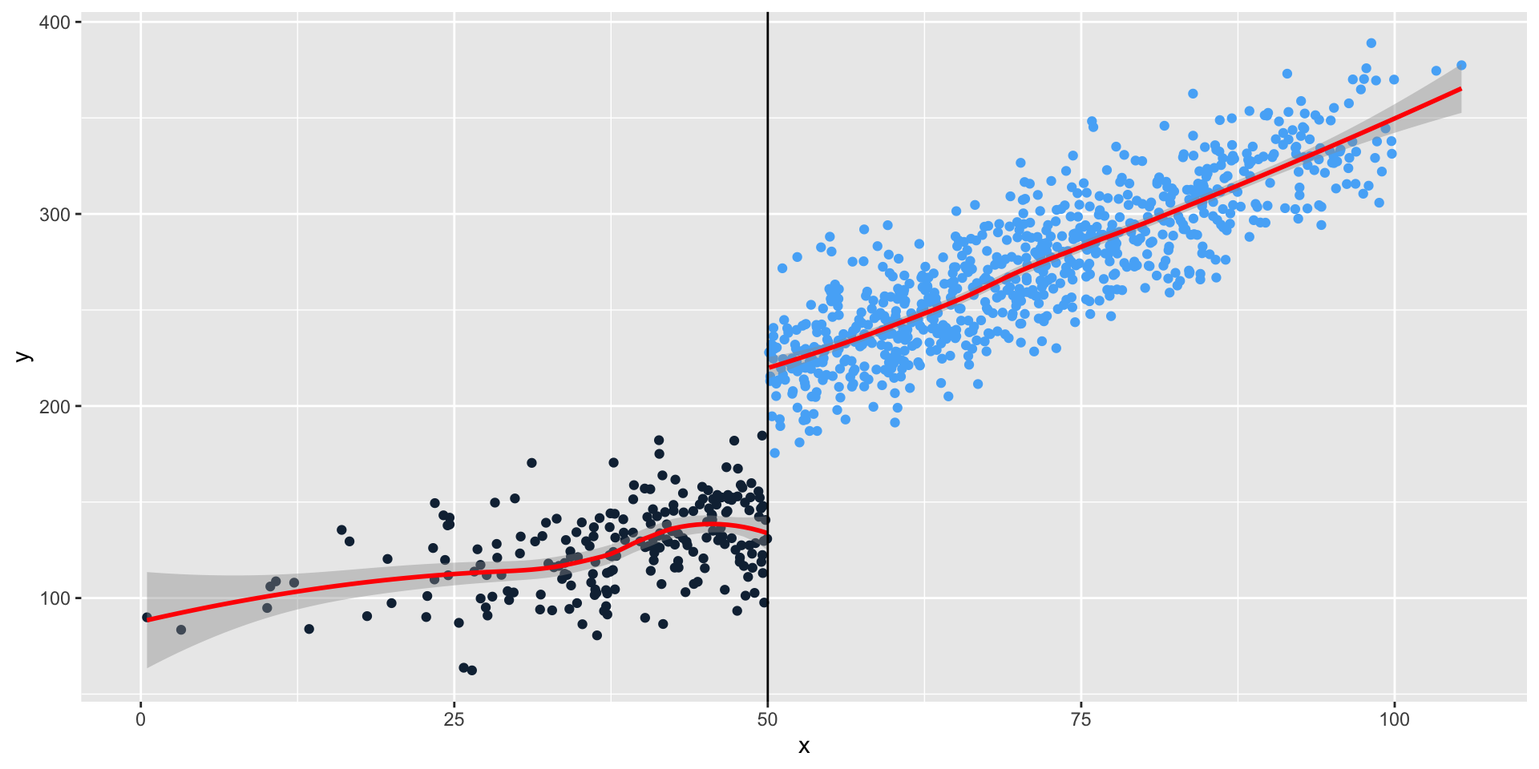
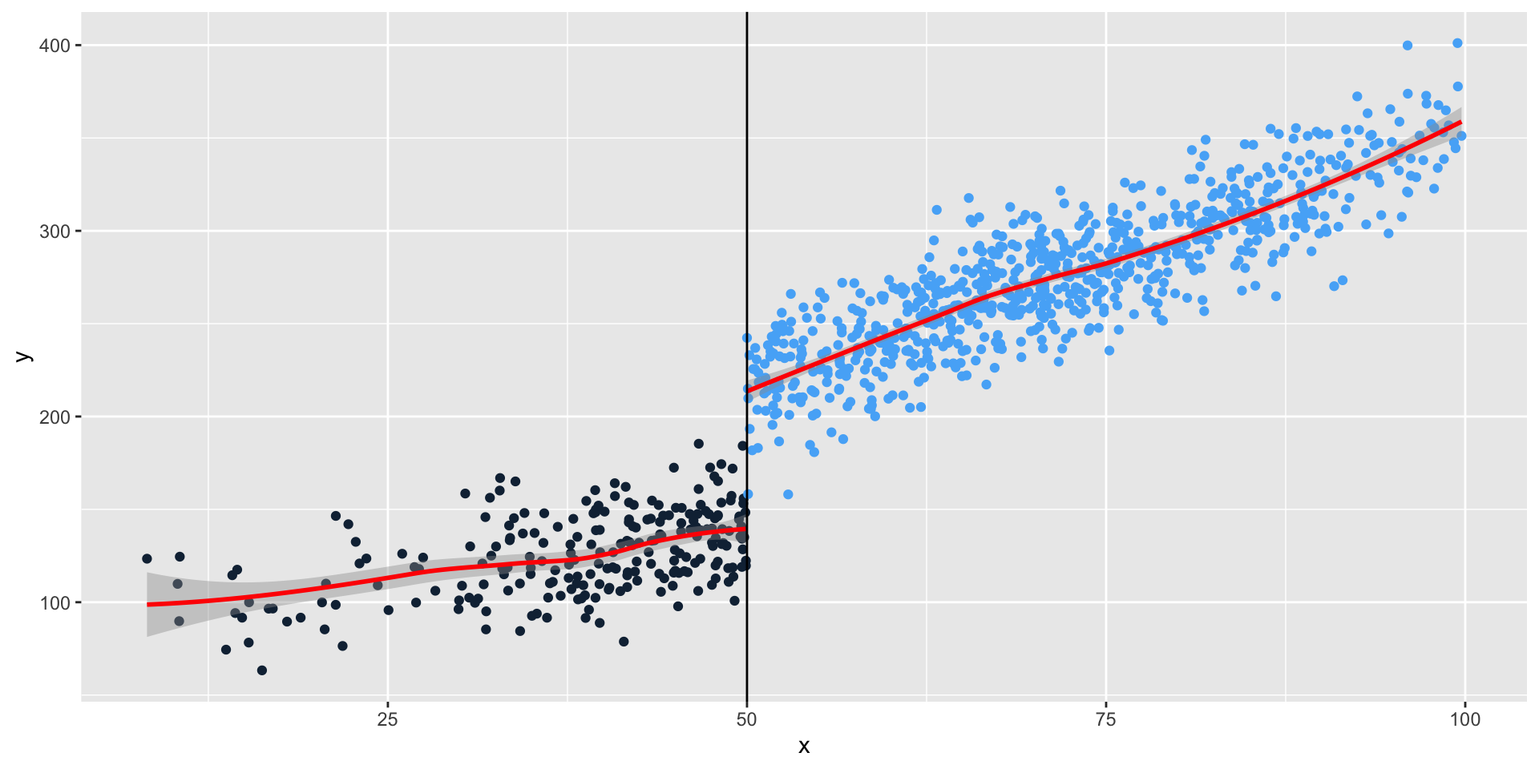
RDD updated

diff --git a/7.lecture7_rdd.html b/7.lecture7_rdd.html
@@ -10,7 +10,7 @@
   <meta name="generator" content="quarto-1.7.32">
 
   <meta name="author" content="Ozan Aksoy">
-  <meta name="dcterms.date" content="2026-03-03">
+  <meta name="dcterms.date" content="2026-03-04">
   <title>Exotic designs: Regression Discontinuity</title>
   <meta name="apple-mobile-web-app-capable" content="yes">
   <meta name="apple-mobile-web-app-status-bar-style" content="black-translucent">
@@ -212,7 +212,7 @@ Ozan Aksoy
 </div>
 </div>
 
-  <p class="date">March 3, 2026</p>
+  <p class="date">March 4, 2026</p>
 </section>
 <section>
 <section id="outline" class="title-slide slide level1 center" data-background-color="#17a091">
@@ -250,7 +250,7 @@ Ozan Aksoy
 <h2>What is a <em>discontinuity</em>?</h2>
 <p>There are two types of processes for assignment</p>
 <p><strong>Sharp</strong>: treatment is only and always assigned to everyone after <span class="math inline">\(c\)</span>, never before that value</p>
-<p><strong>Fuzzy</strong>: treatment is more likely after <span class="math inline">\(c\)</span> than before but not 100%; some below <span class="math inline">\(c\)</span> do get treatment</p>
+<p><strong>Fuzzy</strong>: treatment is more likely after <span class="math inline">\(c\)</span> than before but not 100%; some below <span class="math inline">\(c\)</span> may get treatment, some above <span class="math inline">\(c\)</span> may not get treatment</p>
 </section>
 <section id="examples-of-discontinuities" class="slide level2">
 <h2>Examples of discontinuities</h2>
@@ -375,7 +375,7 @@ Ozan Aksoy
 <ul>
 <li><strong>Treatment</strong> <span class="math inline">\(D_i \in \{0,1\}\)</span></li>
 <li><strong>Threshold</strong> <span class="math inline">\(c\)</span> above which <span class="math inline">\(D_i = 1\)</span></li>
-<li><strong>Potential outcomes</strong> under Treatment and controlL <span class="math inline">\(Y_i(1)\)</span> and <span class="math inline">\(Y_i(0)\)</span></li>
+<li><strong>Potential outcomes</strong> under Treatment and control <span class="math inline">\(Y_i(1)\)</span> and <span class="math inline">\(Y_i(0)\)</span></li>
 <li><strong>Running/forcing variable</strong> <span class="math inline">\(X_i\)</span> that determines if <span class="math inline">\(i\)</span> is above/below <span class="math inline">\(c\)</span></li>
 </ul>
 <p><span class="math display">\[
@@ -412,7 +412,7 @@ D_i =
 <li><p>No perfect manipulation of <span class="math inline">\(X\)</span></p></li>
 <li><p>Local SUTVA</p></li>
 <li><p>Sharp RD: Treatment assignment must change discontinuously at the cutoff</p></li>
-<li><p>Fuzzy RD: Exclusion restriction (here must be no “direct” effect of crossing ccc on the outcome.)</p></li>
+<li><p>Fuzzy RD: Exclusion restriction (here must be no “direct” effect of crossing <span class="math inline">\(c\)</span> on the outcome)</p></li>
 <li><p>Correct functional form is estimated locally</p></li>
 </ul>
 </section>
@@ -730,25 +730,25 @@ Window Length / 2          &lt;c     &gt;=c    P&gt;|T|
 
     <script>
       // Create table-specific functions using external factory
-      const tableFns_0lprje3f9f0c4ai1prxd = TinyTable.createTableFunctions("tinytable_0lprje3f9f0c4ai1prxd");
+      const tableFns_wkcvma13ls3y1tzstnja = TinyTable.createTableFunctions("tinytable_wkcvma13ls3y1tzstnja");
       // tinytable span after
       window.addEventListener('load', function () {
           var cellsToStyle = [
             // tinytable style arrays after
-          { positions: [ { i: '14', j: 2 }, { i: '14', j: 3 }, { i: '14', j: 4 } ], css_id: 'tinytable_css_yk1djojq9n0e3olnguuz',}, 
-          { positions: [ { i: '6', j: 2 }, { i: '6', j: 3 }, { i: '6', j: 4 } ], css_id: 'tinytable_css_2kko8js0dqf65l47m0ci',}, 
-          { positions: [ { i: '1', j: 2 }, { i: '2', j: 2 }, { i: '3', j: 2 }, { i: '4', j: 2 }, { i: '5', j: 2 }, { i: '7', j: 2 }, { i: '8', j: 2 }, { i: '9', j: 2 }, { i: '10', j: 2 }, { i: '11', j: 2 }, { i: '12', j: 2 }, { i: '13', j: 2 }, { i: '1', j: 3 }, { i: '2', j: 3 }, { i: '3', j: 3 }, { i: '4', j: 3 }, { i: '5', j: 3 }, { i: '7', j: 3 }, { i: '8', j: 3 }, { i: '9', j: 3 }, { i: '10', j: 3 }, { i: '11', j: 3 }, { i: '12', j: 3 }, { i: '13', j: 3 }, { i: '1', j: 4 }, { i: '2', j: 4 }, { i: '3', j: 4 }, { i: '4', j: 4 }, { i: '5', j: 4 }, { i: '7', j: 4 }, { i: '8', j: 4 }, { i: '9', j: 4 }, { i: '10', j: 4 }, { i: '11', j: 4 }, { i: '12', j: 4 }, { i: '13', j: 4 } ], css_id: 'tinytable_css_9k4gtv1gi9ou587za2kp',}, 
-          { positions: [ { i: '0', j: 2 }, { i: '0', j: 3 }, { i: '0', j: 4 } ], css_id: 'tinytable_css_15hwmd3q91xrkbtfz0n4',}, 
-          { positions: [ { i: '14', j: 1 } ], css_id: 'tinytable_css_2obsrrpidp2mj10kc85i',}, 
-          { positions: [ { i: '6', j: 1 } ], css_id: 'tinytable_css_bpx208j7pxoqk0fylvyu',}, 
-          { positions: [ { i: '1', j: 1 }, { i: '2', j: 1 }, { i: '3', j: 1 }, { i: '4', j: 1 }, { i: '5', j: 1 }, { i: '7', j: 1 }, { i: '8', j: 1 }, { i: '9', j: 1 }, { i: '10', j: 1 }, { i: '11', j: 1 }, { i: '12', j: 1 }, { i: '13', j: 1 } ], css_id: 'tinytable_css_1r2ms4yet41lvg6p8t6q',}, 
-          { positions: [ { i: '0', j: 1 } ], css_id: 'tinytable_css_6wu1puy770g4nzyisbid',}, 
+          { positions: [ { i: '14', j: 2 }, { i: '14', j: 3 }, { i: '14', j: 4 } ], css_id: 'tinytable_css_x604d6ziy6dcovnmkgki',}, 
+          { positions: [ { i: '6', j: 2 }, { i: '6', j: 3 }, { i: '6', j: 4 } ], css_id: 'tinytable_css_b8ett9xz27tremxnizit',}, 
+          { positions: [ { i: '1', j: 2 }, { i: '2', j: 2 }, { i: '3', j: 2 }, { i: '4', j: 2 }, { i: '5', j: 2 }, { i: '7', j: 2 }, { i: '8', j: 2 }, { i: '9', j: 2 }, { i: '10', j: 2 }, { i: '11', j: 2 }, { i: '12', j: 2 }, { i: '13', j: 2 }, { i: '1', j: 3 }, { i: '2', j: 3 }, { i: '3', j: 3 }, { i: '4', j: 3 }, { i: '5', j: 3 }, { i: '7', j: 3 }, { i: '8', j: 3 }, { i: '9', j: 3 }, { i: '10', j: 3 }, { i: '11', j: 3 }, { i: '12', j: 3 }, { i: '13', j: 3 }, { i: '1', j: 4 }, { i: '2', j: 4 }, { i: '3', j: 4 }, { i: '4', j: 4 }, { i: '5', j: 4 }, { i: '7', j: 4 }, { i: '8', j: 4 }, { i: '9', j: 4 }, { i: '10', j: 4 }, { i: '11', j: 4 }, { i: '12', j: 4 }, { i: '13', j: 4 } ], css_id: 'tinytable_css_x2e0qqbof8jhg2nipvu9',}, 
+          { positions: [ { i: '0', j: 2 }, { i: '0', j: 3 }, { i: '0', j: 4 } ], css_id: 'tinytable_css_fggz617nia83us08p4jl',}, 
+          { positions: [ { i: '14', j: 1 } ], css_id: 'tinytable_css_aoljj1y7i72s39khmedf',}, 
+          { positions: [ { i: '6', j: 1 } ], css_id: 'tinytable_css_rrpit9qoxrhodveo6mk3',}, 
+          { positions: [ { i: '1', j: 1 }, { i: '2', j: 1 }, { i: '3', j: 1 }, { i: '4', j: 1 }, { i: '5', j: 1 }, { i: '7', j: 1 }, { i: '8', j: 1 }, { i: '9', j: 1 }, { i: '10', j: 1 }, { i: '11', j: 1 }, { i: '12', j: 1 }, { i: '13', j: 1 } ], css_id: 'tinytable_css_6ckyil26sv8fexoli3rm',}, 
+          { positions: [ { i: '0', j: 1 } ], css_id: 'tinytable_css_gdkz5mz5vt3flwms6hhz',}, 
           ];
 
           // Loop over the arrays to style the cells
           cellsToStyle.forEach(function (group) {
               group.positions.forEach(function (cell) {
-                  tableFns_0lprje3f9f0c4ai1prxd.styleCell(cell.i, cell.j, group.css_id);
+                  tableFns_wkcvma13ls3y1tzstnja.styleCell(cell.i, cell.j, group.css_id);
               });
           });
       });
@@ -757,17 +757,17 @@ Window Length / 2          &lt;c     &gt;=c    P&gt;|T|
     <link rel="stylesheet" href="https://cdn.jsdelivr.net/gh/vincentarelbundock/tinytable@main/inst/tinytable.css">
     <style>
     /* tinytable css entries after */
-    #tinytable_0lprje3f9f0c4ai1prxd td.tinytable_css_yk1djojq9n0e3olnguuz, #tinytable_0lprje3f9f0c4ai1prxd th.tinytable_css_yk1djojq9n0e3olnguuz {  position: relative; --border-bottom: 1; --border-left: 0; --border-right: 0; --border-top: 0; --line-color-bottom: var(--tt-line-color); --line-color-left: var(--tt-line-color); --line-color-right: var(--tt-line-color); --line-color-top: var(--tt-line-color); --line-width-bottom: 0.1em; --line-width-left: 0.1em; --line-width-right: 0.1em; --line-width-top: 0.1em; --trim-bottom-left: 0%; --trim-bottom-right: 0%; --trim-left-bottom: 0%; --trim-left-top: 0%; --trim-right-bottom: 0%; --trim-right-top: 0%; --trim-top-left: 0%; --trim-top-right: 0%; ; text-align: center }
-    #tinytable_0lprje3f9f0c4ai1prxd td.tinytable_css_2kko8js0dqf65l47m0ci, #tinytable_0lprje3f9f0c4ai1prxd th.tinytable_css_2kko8js0dqf65l47m0ci {  position: relative; --border-bottom: 1; --border-left: 0; --border-right: 0; --border-top: 0; --line-color-bottom: var(--tt-line-color); --line-color-left: var(--tt-line-color); --line-color-right: var(--tt-line-color); --line-color-top: var(--tt-line-color); --line-width-bottom: 0.05em; --line-width-left: 0.1em; --line-width-right: 0.1em; --line-width-top: 0.1em; --trim-bottom-left: 0%; --trim-bottom-right: 0%; --trim-left-bottom: 0%; --trim-left-top: 0%; --trim-right-bottom: 0%; --trim-right-top: 0%; --trim-top-left: 0%; --trim-top-right: 0%; ; text-align: center }
-    #tinytable_0lprje3f9f0c4ai1prxd td.tinytable_css_9k4gtv1gi9ou587za2kp, #tinytable_0lprje3f9f0c4ai1prxd th.tinytable_css_9k4gtv1gi9ou587za2kp { text-align: center }
-    #tinytable_0lprje3f9f0c4ai1prxd td.tinytable_css_15hwmd3q91xrkbtfz0n4, #tinytable_0lprje3f9f0c4ai1prxd th.tinytable_css_15hwmd3q91xrkbtfz0n4 {  position: relative; --border-bottom: 1; --border-left: 0; --border-right: 0; --border-top: 1; --line-color-bottom: var(--tt-line-color); --line-color-left: var(--tt-line-color); --line-color-right: var(--tt-line-color); --line-color-top: var(--tt-line-color); --line-width-bottom: 0.05em; --line-width-left: 0.1em; --line-width-right: 0.1em; --line-width-top: 0.1em; --trim-bottom-left: 0%; --trim-bottom-right: 0%; --trim-left-bottom: 0%; --trim-left-top: 0%; --trim-right-bottom: 0%; --trim-right-top: 0%; --trim-top-left: 0%; --trim-top-right: 0%; ; text-align: center }
-    #tinytable_0lprje3f9f0c4ai1prxd td.tinytable_css_2obsrrpidp2mj10kc85i, #tinytable_0lprje3f9f0c4ai1prxd th.tinytable_css_2obsrrpidp2mj10kc85i {  position: relative; --border-bottom: 1; --border-left: 0; --border-right: 0; --border-top: 0; --line-color-bottom: var(--tt-line-color); --line-color-left: var(--tt-line-color); --line-color-right: var(--tt-line-color); --line-color-top: var(--tt-line-color); --line-width-bottom: 0.1em; --line-width-left: 0.1em; --line-width-right: 0.1em; --line-width-top: 0.1em; --trim-bottom-left: 0%; --trim-bottom-right: 0%; --trim-left-bottom: 0%; --trim-left-top: 0%; --trim-right-bottom: 0%; --trim-right-top: 0%; --trim-top-left: 0%; --trim-top-right: 0%; ; text-align: left }
-    #tinytable_0lprje3f9f0c4ai1prxd td.tinytable_css_bpx208j7pxoqk0fylvyu, #tinytable_0lprje3f9f0c4ai1prxd th.tinytable_css_bpx208j7pxoqk0fylvyu {  position: relative; --border-bottom: 1; --border-left: 0; --border-right: 0; --border-top: 0; --line-color-bottom: var(--tt-line-color); --line-color-left: var(--tt-line-color); --line-color-right: var(--tt-line-color); --line-color-top: var(--tt-line-color); --line-width-bottom: 0.05em; --line-width-left: 0.1em; --line-width-right: 0.1em; --line-width-top: 0.1em; --trim-bottom-left: 0%; --trim-bottom-right: 0%; --trim-left-bottom: 0%; --trim-left-top: 0%; --trim-right-bottom: 0%; --trim-right-top: 0%; --trim-top-left: 0%; --trim-top-right: 0%; ; text-align: left }
-    #tinytable_0lprje3f9f0c4ai1prxd td.tinytable_css_1r2ms4yet41lvg6p8t6q, #tinytable_0lprje3f9f0c4ai1prxd th.tinytable_css_1r2ms4yet41lvg6p8t6q { text-align: left }
-    #tinytable_0lprje3f9f0c4ai1prxd td.tinytable_css_6wu1puy770g4nzyisbid, #tinytable_0lprje3f9f0c4ai1prxd th.tinytable_css_6wu1puy770g4nzyisbid {  position: relative; --border-bottom: 1; --border-left: 0; --border-right: 0; --border-top: 1; --line-color-bottom: var(--tt-line-color); --line-color-left: var(--tt-line-color); --line-color-right: var(--tt-line-color); --line-color-top: var(--tt-line-color); --line-width-bottom: 0.05em; --line-width-left: 0.1em; --line-width-right: 0.1em; --line-width-top: 0.1em; --trim-bottom-left: 0%; --trim-bottom-right: 0%; --trim-left-bottom: 0%; --trim-left-top: 0%; --trim-right-bottom: 0%; --trim-right-top: 0%; --trim-top-left: 0%; --trim-top-right: 0%; ; text-align: left }
+    #tinytable_wkcvma13ls3y1tzstnja td.tinytable_css_x604d6ziy6dcovnmkgki, #tinytable_wkcvma13ls3y1tzstnja th.tinytable_css_x604d6ziy6dcovnmkgki {  position: relative; --border-bottom: 1; --border-left: 0; --border-right: 0; --border-top: 0; --line-color-bottom: var(--tt-line-color); --line-color-left: var(--tt-line-color); --line-color-right: var(--tt-line-color); --line-color-top: var(--tt-line-color); --line-width-bottom: 0.1em; --line-width-left: 0.1em; --line-width-right: 0.1em; --line-width-top: 0.1em; --trim-bottom-left: 0%; --trim-bottom-right: 0%; --trim-left-bottom: 0%; --trim-left-top: 0%; --trim-right-bottom: 0%; --trim-right-top: 0%; --trim-top-left: 0%; --trim-top-right: 0%; ; text-align: center }
+    #tinytable_wkcvma13ls3y1tzstnja td.tinytable_css_b8ett9xz27tremxnizit, #tinytable_wkcvma13ls3y1tzstnja th.tinytable_css_b8ett9xz27tremxnizit {  position: relative; --border-bottom: 1; --border-left: 0; --border-right: 0; --border-top: 0; --line-color-bottom: var(--tt-line-color); --line-color-left: var(--tt-line-color); --line-color-right: var(--tt-line-color); --line-color-top: var(--tt-line-color); --line-width-bottom: 0.05em; --line-width-left: 0.1em; --line-width-right: 0.1em; --line-width-top: 0.1em; --trim-bottom-left: 0%; --trim-bottom-right: 0%; --trim-left-bottom: 0%; --trim-left-top: 0%; --trim-right-bottom: 0%; --trim-right-top: 0%; --trim-top-left: 0%; --trim-top-right: 0%; ; text-align: center }
+    #tinytable_wkcvma13ls3y1tzstnja td.tinytable_css_x2e0qqbof8jhg2nipvu9, #tinytable_wkcvma13ls3y1tzstnja th.tinytable_css_x2e0qqbof8jhg2nipvu9 { text-align: center }
+    #tinytable_wkcvma13ls3y1tzstnja td.tinytable_css_fggz617nia83us08p4jl, #tinytable_wkcvma13ls3y1tzstnja th.tinytable_css_fggz617nia83us08p4jl {  position: relative; --border-bottom: 1; --border-left: 0; --border-right: 0; --border-top: 1; --line-color-bottom: var(--tt-line-color); --line-color-left: var(--tt-line-color); --line-color-right: var(--tt-line-color); --line-color-top: var(--tt-line-color); --line-width-bottom: 0.05em; --line-width-left: 0.1em; --line-width-right: 0.1em; --line-width-top: 0.1em; --trim-bottom-left: 0%; --trim-bottom-right: 0%; --trim-left-bottom: 0%; --trim-left-top: 0%; --trim-right-bottom: 0%; --trim-right-top: 0%; --trim-top-left: 0%; --trim-top-right: 0%; ; text-align: center }
+    #tinytable_wkcvma13ls3y1tzstnja td.tinytable_css_aoljj1y7i72s39khmedf, #tinytable_wkcvma13ls3y1tzstnja th.tinytable_css_aoljj1y7i72s39khmedf {  position: relative; --border-bottom: 1; --border-left: 0; --border-right: 0; --border-top: 0; --line-color-bottom: var(--tt-line-color); --line-color-left: var(--tt-line-color); --line-color-right: var(--tt-line-color); --line-color-top: var(--tt-line-color); --line-width-bottom: 0.1em; --line-width-left: 0.1em; --line-width-right: 0.1em; --line-width-top: 0.1em; --trim-bottom-left: 0%; --trim-bottom-right: 0%; --trim-left-bottom: 0%; --trim-left-top: 0%; --trim-right-bottom: 0%; --trim-right-top: 0%; --trim-top-left: 0%; --trim-top-right: 0%; ; text-align: left }
+    #tinytable_wkcvma13ls3y1tzstnja td.tinytable_css_rrpit9qoxrhodveo6mk3, #tinytable_wkcvma13ls3y1tzstnja th.tinytable_css_rrpit9qoxrhodveo6mk3 {  position: relative; --border-bottom: 1; --border-left: 0; --border-right: 0; --border-top: 0; --line-color-bottom: var(--tt-line-color); --line-color-left: var(--tt-line-color); --line-color-right: var(--tt-line-color); --line-color-top: var(--tt-line-color); --line-width-bottom: 0.05em; --line-width-left: 0.1em; --line-width-right: 0.1em; --line-width-top: 0.1em; --trim-bottom-left: 0%; --trim-bottom-right: 0%; --trim-left-bottom: 0%; --trim-left-top: 0%; --trim-right-bottom: 0%; --trim-right-top: 0%; --trim-top-left: 0%; --trim-top-right: 0%; ; text-align: left }
+    #tinytable_wkcvma13ls3y1tzstnja td.tinytable_css_6ckyil26sv8fexoli3rm, #tinytable_wkcvma13ls3y1tzstnja th.tinytable_css_6ckyil26sv8fexoli3rm { text-align: left }
+    #tinytable_wkcvma13ls3y1tzstnja td.tinytable_css_gdkz5mz5vt3flwms6hhz, #tinytable_wkcvma13ls3y1tzstnja th.tinytable_css_gdkz5mz5vt3flwms6hhz {  position: relative; --border-bottom: 1; --border-left: 0; --border-right: 0; --border-top: 1; --line-color-bottom: var(--tt-line-color); --line-color-left: var(--tt-line-color); --line-color-right: var(--tt-line-color); --line-color-top: var(--tt-line-color); --line-width-bottom: 0.05em; --line-width-left: 0.1em; --line-width-right: 0.1em; --line-width-top: 0.1em; --trim-bottom-left: 0%; --trim-bottom-right: 0%; --trim-left-bottom: 0%; --trim-left-top: 0%; --trim-right-bottom: 0%; --trim-right-top: 0%; --trim-top-left: 0%; --trim-top-right: 0%; ; text-align: left }
     </style>
     <div class="container">
-      <table class="tinytable" id="tinytable_0lprje3f9f0c4ai1prxd" style="width: auto; margin-left: auto; margin-right: auto;" data-quarto-disable-processing="true">
+      <table class="tinytable" id="tinytable_wkcvma13ls3y1tzstnja" style="width: auto; margin-left: auto; margin-right: auto;" data-quarto-disable-processing="true">
         
         <thead>
               <tr>
@@ -979,34 +979,43 @@ Unique Obs.                     155          262
 </section>
 <section id="r-setup" class="slide level2">
 <h2>R Setup</h2>
+<div class="cell">
+<div class="sourceCode cell-code" id="cb14"><pre class="sourceCode numberSource r number-lines code-with-copy"><code class="sourceCode r"><span id="cb14-1"><a href=""></a><span class="co"># Install if needed:</span></span>
+<span id="cb14-2"><a href=""></a><span class="co"># install.packages(c("rdrobust", "fixest", "ggplot2", "dplyr"))</span></span>
+<span id="cb14-3"><a href=""></a></span>
+<span id="cb14-4"><a href=""></a><span class="fu">library</span>(rdrobust)</span>
+<span id="cb14-5"><a href=""></a><span class="fu">library</span>(fixest)</span>
+<span id="cb14-6"><a href=""></a><span class="fu">library</span>(ggplot2)</span>
+<span id="cb14-7"><a href=""></a><span class="fu">library</span>(dplyr)</span></code><button title="Copy to Clipboard" class="code-copy-button"><i class="bi"></i></button></pre></div>
+</div>
 </section>
 <section id="applied-example-simulated-fuzzy-rd" class="slide level2">
 <h2>Applied Example (Simulated Fuzzy RD)</h2>
 <div class="cell">
-<div class="sourceCode cell-code" id="cb14"><pre class="sourceCode numberSource r number-lines code-with-copy"><code class="sourceCode r"><span id="cb14-1"><a href=""></a><span class="fu">set.seed</span>(<span class="dv">2026</span>)</span>
-<span id="cb14-2"><a href=""></a>n <span class="ot">&lt;-</span> <span class="dv">3000</span></span>
-<span id="cb14-3"><a href=""></a></span>
-<span id="cb14-4"><a href=""></a><span class="co"># Running variable and cutoff</span></span>
-<span id="cb14-5"><a href=""></a>x <span class="ot">&lt;-</span> <span class="fu">runif</span>(n, <span class="sc">-</span><span class="dv">1</span>, <span class="dv">1</span>)</span>
-<span id="cb14-6"><a href=""></a>c0 <span class="ot">&lt;-</span> <span class="dv">0</span></span>
-<span id="cb14-7"><a href=""></a>z <span class="ot">&lt;-</span> <span class="fu">as.integer</span>(x <span class="sc">&gt;=</span> c0)  <span class="co"># cutoff indicator (instrument)</span></span>
-<span id="cb14-8"><a href=""></a></span>
-<span id="cb14-9"><a href=""></a><span class="co"># Imperfect compliance: treatment probability jumps at cutoff</span></span>
-<span id="cb14-10"><a href=""></a>p_treat <span class="ot">&lt;-</span> <span class="fu">pmin</span>(<span class="fu">pmax</span>(<span class="fl">0.25</span> <span class="sc">+</span> <span class="fl">0.40</span> <span class="sc">*</span> z <span class="sc">+</span> <span class="fl">0.20</span> <span class="sc">*</span> x, <span class="fl">0.02</span>), <span class="fl">0.98</span>)</span>
-<span id="cb14-11"><a href=""></a>d <span class="ot">&lt;-</span> <span class="fu">rbinom</span>(n, <span class="dv">1</span>, p_treat)</span>
-<span id="cb14-12"><a href=""></a></span>
-<span id="cb14-13"><a href=""></a><span class="co"># Outcome with true causal effect of treatment = 2.0</span></span>
-<span id="cb14-14"><a href=""></a>y <span class="ot">&lt;-</span> <span class="dv">1</span> <span class="sc">+</span> <span class="fl">2.0</span> <span class="sc">*</span> d <span class="sc">+</span> <span class="fl">1.2</span> <span class="sc">*</span> x <span class="sc">+</span> <span class="fl">0.6</span> <span class="sc">*</span> x<span class="sc">^</span><span class="dv">2</span> <span class="sc">+</span> <span class="fu">rnorm</span>(n, <span class="at">sd =</span> <span class="dv">1</span>)</span>
-<span id="cb14-15"><a href=""></a></span>
-<span id="cb14-16"><a href=""></a>frd_dat <span class="ot">&lt;-</span> <span class="fu">data.frame</span>(<span class="at">y =</span> y, <span class="at">d =</span> d, <span class="at">x =</span> x, <span class="at">z =</span> z)</span></code><button title="Copy to Clipboard" class="code-copy-button"><i class="bi"></i></button></pre></div>
+<div class="sourceCode cell-code" id="cb15"><pre class="sourceCode numberSource r number-lines code-with-copy"><code class="sourceCode r"><span id="cb15-1"><a href=""></a><span class="fu">set.seed</span>(<span class="dv">2026</span>)</span>
+<span id="cb15-2"><a href=""></a>n <span class="ot">&lt;-</span> <span class="dv">3000</span></span>
+<span id="cb15-3"><a href=""></a></span>
+<span id="cb15-4"><a href=""></a><span class="co"># Running variable and cutoff</span></span>
+<span id="cb15-5"><a href=""></a>x <span class="ot">&lt;-</span> <span class="fu">runif</span>(n, <span class="sc">-</span><span class="dv">1</span>, <span class="dv">1</span>)</span>
+<span id="cb15-6"><a href=""></a>c0 <span class="ot">&lt;-</span> <span class="dv">0</span></span>
+<span id="cb15-7"><a href=""></a>z <span class="ot">&lt;-</span> <span class="fu">as.integer</span>(x <span class="sc">&gt;=</span> c0)  <span class="co"># cutoff indicator (instrument)</span></span>
+<span id="cb15-8"><a href=""></a></span>
+<span id="cb15-9"><a href=""></a><span class="co"># Imperfect compliance: treatment probability jumps at cutoff</span></span>
+<span id="cb15-10"><a href=""></a>p_treat <span class="ot">&lt;-</span> <span class="fu">pmin</span>(<span class="fu">pmax</span>(<span class="fl">0.25</span> <span class="sc">+</span> <span class="fl">0.40</span> <span class="sc">*</span> z <span class="sc">+</span> <span class="fl">0.20</span> <span class="sc">*</span> x, <span class="fl">0.02</span>), <span class="fl">0.98</span>)</span>
+<span id="cb15-11"><a href=""></a>d <span class="ot">&lt;-</span> <span class="fu">rbinom</span>(n, <span class="dv">1</span>, p_treat)</span>
+<span id="cb15-12"><a href=""></a></span>
+<span id="cb15-13"><a href=""></a><span class="co"># Outcome with true causal effect of treatment = 2.0</span></span>
+<span id="cb15-14"><a href=""></a>y <span class="ot">&lt;-</span> <span class="dv">1</span> <span class="sc">+</span> <span class="fl">2.0</span> <span class="sc">*</span> d <span class="sc">+</span> <span class="fl">1.2</span> <span class="sc">*</span> x <span class="sc">+</span> <span class="fl">0.6</span> <span class="sc">*</span> x<span class="sc">^</span><span class="dv">2</span> <span class="sc">+</span> <span class="fu">rnorm</span>(n, <span class="at">sd =</span> <span class="dv">1</span>)</span>
+<span id="cb15-15"><a href=""></a></span>
+<span id="cb15-16"><a href=""></a>frd_dat <span class="ot">&lt;-</span> <span class="fu">data.frame</span>(<span class="at">y =</span> y, <span class="at">d =</span> d, <span class="at">x =</span> x, <span class="at">z =</span> z)</span></code><button title="Copy to Clipboard" class="code-copy-button"><i class="bi"></i></button></pre></div>
 </div>
 </section>
 <section id="visual-check-fuzzy-first-stage" class="slide level2">
 <h2>Visual Check: Fuzzy First Stage</h2>
 <div class="cell">
-<div class="sourceCode cell-code" id="cb15"><pre class="sourceCode numberSource r number-lines code-with-copy"><code class="sourceCode r"><span id="cb15-1"><a href=""></a><span class="co"># Plot binned means of d with local polynomial fits</span></span>
-<span id="cb15-2"><a href=""></a>rdrobust<span class="sc">::</span><span class="fu">rdplot</span>(<span class="at">y =</span> frd_dat<span class="sc">$</span>d, <span class="at">x =</span> frd_dat<span class="sc">$</span>x, <span class="at">c =</span> <span class="dv">0</span>,</span>
-<span id="cb15-3"><a href=""></a>                 <span class="at">y.label =</span> <span class="st">"Pr(treated)"</span>, <span class="at">x.label =</span> <span class="st">"X"</span>)</span></code><button title="Copy to Clipboard" class="code-copy-button"><i class="bi"></i></button></pre></div>
+<div class="sourceCode cell-code" id="cb16"><pre class="sourceCode numberSource r number-lines code-with-copy"><code class="sourceCode r"><span id="cb16-1"><a href=""></a><span class="co"># Plot binned means of d with local polynomial fits</span></span>
+<span id="cb16-2"><a href=""></a>rdrobust<span class="sc">::</span><span class="fu">rdplot</span>(<span class="at">y =</span> frd_dat<span class="sc">$</span>d, <span class="at">x =</span> frd_dat<span class="sc">$</span>x, <span class="at">c =</span> <span class="dv">0</span>,</span>
+<span id="cb16-3"><a href=""></a>                 <span class="at">y.label =</span> <span class="st">"Pr(treated)"</span>, <span class="at">x.label =</span> <span class="st">"X"</span>)</span></code><button title="Copy to Clipboard" class="code-copy-button"><i class="bi"></i></button></pre></div>
 <div class="cell-output-display">
 <div>
 <figure>
@@ -1019,9 +1028,9 @@ Unique Obs.                     155          262
 <section id="visual-check-reduced-form-for-outcome" class="slide level2">
 <h2>Visual Check: Reduced form for outcome</h2>
 <div class="cell">
-<div class="sourceCode cell-code" id="cb16"><pre class="sourceCode numberSource r number-lines code-with-copy"><code class="sourceCode r"><span id="cb16-1"><a href=""></a><span class="co"># Plot binned means of y with local polynomial fits</span></span>
-<span id="cb16-2"><a href=""></a>rdrobust<span class="sc">::</span><span class="fu">rdplot</span>(<span class="at">y =</span> frd_dat<span class="sc">$</span>y, <span class="at">x =</span> frd_dat<span class="sc">$</span>x, <span class="at">c =</span> <span class="dv">0</span>,</span>
-<span id="cb16-3"><a href=""></a>                 <span class="at">y.label =</span> <span class="st">"Outcome"</span>, <span class="at">x.label =</span> <span class="st">"X"</span>)</span></code><button title="Copy to Clipboard" class="code-copy-button"><i class="bi"></i></button></pre></div>
+<div class="sourceCode cell-code" id="cb17"><pre class="sourceCode numberSource r number-lines code-with-copy"><code class="sourceCode r"><span id="cb17-1"><a href=""></a><span class="co"># Plot binned means of y with local polynomial fits</span></span>
+<span id="cb17-2"><a href=""></a>rdrobust<span class="sc">::</span><span class="fu">rdplot</span>(<span class="at">y =</span> frd_dat<span class="sc">$</span>y, <span class="at">x =</span> frd_dat<span class="sc">$</span>x, <span class="at">c =</span> <span class="dv">0</span>,</span>
+<span id="cb17-3"><a href=""></a>                 <span class="at">y.label =</span> <span class="st">"Outcome"</span>, <span class="at">x.label =</span> <span class="st">"X"</span>)</span></code><button title="Copy to Clipboard" class="code-copy-button"><i class="bi"></i></button></pre></div>
 <div class="cell-output-display">
 <div>
 <figure>
@@ -1034,11 +1043,11 @@ Unique Obs.                     155          262
 <section id="visual-check-potential-manipulation-of-x-around-the-cutoff" class="slide level2">
 <h2>Visual check: potential manipulation of x around the cutoff</h2>
 <div class="cell">
-<div class="sourceCode cell-code" id="cb17"><pre class="sourceCode numberSource r number-lines code-with-copy"><code class="sourceCode r"><span id="cb17-1"><a href=""></a><span class="co"># Density manipulation test around cutoff</span></span>
-<span id="cb17-2"><a href=""></a><span class="fu">library</span>(rddensity)</span>
-<span id="cb17-3"><a href=""></a>test_d <span class="ot">&lt;-</span> <span class="fu">rddensity</span>(<span class="at">X =</span> frd_dat<span class="sc">$</span>x, <span class="at">c =</span> <span class="dv">0</span>)</span>
-<span id="cb17-4"><a href=""></a>plot_density_test <span class="ot">&lt;-</span> <span class="fu">rdplotdensity</span>(<span class="at">rdd =</span> test_d, </span>
-<span id="cb17-5"><a href=""></a>                                   <span class="at">X =</span> frd_dat<span class="sc">$</span>x)</span></code><button title="Copy to Clipboard" class="code-copy-button"><i class="bi"></i></button></pre></div>
+<div class="sourceCode cell-code" id="cb18"><pre class="sourceCode numberSource r number-lines code-with-copy"><code class="sourceCode r"><span id="cb18-1"><a href=""></a><span class="co"># Density manipulation test around cutoff</span></span>
+<span id="cb18-2"><a href=""></a><span class="fu">library</span>(rddensity)</span>
+<span id="cb18-3"><a href=""></a>test_d <span class="ot">&lt;-</span> <span class="fu">rddensity</span>(<span class="at">X =</span> frd_dat<span class="sc">$</span>x, <span class="at">c =</span> <span class="dv">0</span>)</span>
+<span id="cb18-4"><a href=""></a>plot_density_test <span class="ot">&lt;-</span> <span class="fu">rdplotdensity</span>(<span class="at">rdd =</span> test_d, </span>
+<span id="cb18-5"><a href=""></a>                                   <span class="at">X =</span> frd_dat<span class="sc">$</span>x)</span></code><button title="Copy to Clipboard" class="code-copy-button"><i class="bi"></i></button></pre></div>
 <div class="cell-output-display">
 <div>
 <figure>
@@ -1051,8 +1060,8 @@ Unique Obs.                     155          262
 <section id="reduced-form-rd-not-fuzzy-yet" class="slide level2">
 <h2>Reduced form RD (not fuzzy yet)</h2>
 <div class="cell">
-<div class="sourceCode cell-code" id="cb18"><pre class="sourceCode numberSource r number-lines code-with-copy"><code class="sourceCode r"><span id="cb18-1"><a href=""></a>rf <span class="ot">&lt;-</span> <span class="fu">rdrobust</span>(<span class="at">y =</span> frd_dat<span class="sc">$</span>y, <span class="at">x =</span> frd_dat<span class="sc">$</span>x, <span class="at">c =</span> <span class="dv">0</span>)</span>
-<span id="cb18-2"><a href=""></a><span class="fu">summary</span>(rf)</span></code><button title="Copy to Clipboard" class="code-copy-button"><i class="bi"></i></button></pre></div>
+<div class="sourceCode cell-code" id="cb19"><pre class="sourceCode numberSource r number-lines code-with-copy"><code class="sourceCode r"><span id="cb19-1"><a href=""></a>rf <span class="ot">&lt;-</span> <span class="fu">rdrobust</span>(<span class="at">y =</span> frd_dat<span class="sc">$</span>y, <span class="at">x =</span> frd_dat<span class="sc">$</span>x, <span class="at">c =</span> <span class="dv">0</span>)</span>
+<span id="cb19-2"><a href=""></a><span class="fu">summary</span>(rf)</span></code><button title="Copy to Clipboard" class="code-copy-button"><i class="bi"></i></button></pre></div>
 <div class="cell-output cell-output-stdout">
 <pre><code>Sharp RD estimates using local polynomial regression.
 
@@ -1082,9 +1091,9 @@ Unique Obs.                    1491         1509
 <section id="estimation-with-rdrobust-fuzzy" class="slide level2">
 <h2>Estimation with <code>rdrobust</code> (Fuzzy)</h2>
 <div class="cell">
-<div class="sourceCode cell-code" id="cb20"><pre class="sourceCode numberSource r number-lines code-with-copy"><code class="sourceCode r"><span id="cb20-1"><a href=""></a><span class="co"># Fuzzy RD: supply y, x, and fuzzy = treatment variable</span></span>
-<span id="cb20-2"><a href=""></a>a <span class="ot">&lt;-</span> <span class="fu">rdrobust</span>(<span class="at">y =</span> frd_dat<span class="sc">$</span>y, <span class="at">x =</span> frd_dat<span class="sc">$</span>x, <span class="at">c =</span> <span class="dv">0</span>, <span class="at">fuzzy =</span> frd_dat<span class="sc">$</span>d)</span>
-<span id="cb20-3"><a href=""></a><span class="fu">summary</span>(a)</span></code><button title="Copy to Clipboard" class="code-copy-button"><i class="bi"></i></button></pre></div>
+<div class="sourceCode cell-code" id="cb21"><pre class="sourceCode numberSource r number-lines code-with-copy"><code class="sourceCode r"><span id="cb21-1"><a href=""></a><span class="co"># Fuzzy RD: supply y, x, and fuzzy = treatment variable</span></span>
+<span id="cb21-2"><a href=""></a>a <span class="ot">&lt;-</span> <span class="fu">rdrobust</span>(<span class="at">y =</span> frd_dat<span class="sc">$</span>y, <span class="at">x =</span> frd_dat<span class="sc">$</span>x, <span class="at">c =</span> <span class="dv">0</span>, <span class="at">fuzzy =</span> frd_dat<span class="sc">$</span>d)</span>
+<span id="cb21-3"><a href=""></a><span class="fu">summary</span>(a)</span></code><button title="Copy to Clipboard" class="code-copy-button"><i class="bi"></i></button></pre></div>
 <div class="cell-output cell-output-stdout">
 <pre><code>Fuzzy RD estimates using local polynomial regression.
 
@@ -1127,13 +1136,13 @@ Treatment effect estimates.
 <h2>Doing it with 2SLS using bandwidths</h2>
 <p>Idea: mimic FRD by restricting to observations near cutoff and instrumenting <code>d</code> with <code>z</code>.</p>
 <div class="cell">
-<div class="sourceCode cell-code" id="cb22"><pre class="sourceCode numberSource r number-lines code-with-copy"><code class="sourceCode r"><span id="cb22-1"><a href=""></a><span class="co"># Use the rdrobust bandwidth (left/right) to define a local sample</span></span>
-<span id="cb22-2"><a href=""></a>h_left <span class="ot">&lt;-</span> a<span class="sc">$</span>bws[<span class="dv">1</span>, <span class="dv">1</span>] ; h_right <span class="ot">&lt;-</span> a<span class="sc">$</span>bws[<span class="dv">1</span>, <span class="dv">2</span>]</span>
-<span id="cb22-3"><a href=""></a>local_dat <span class="ot">&lt;-</span> frd_dat <span class="sc">|&gt;</span></span>
-<span id="cb22-4"><a href=""></a>  <span class="fu">filter</span>(x <span class="sc">&gt;=</span> <span class="sc">-</span>h_left, x <span class="sc">&lt;=</span> h_right) <span class="sc">|&gt;</span></span>
-<span id="cb22-5"><a href=""></a>  <span class="fu">mutate</span>(<span class="at">x_c =</span> x, <span class="at">x_right =</span> z <span class="sc">*</span> x_c)</span>
-<span id="cb22-6"><a href=""></a>iv_fit <span class="ot">&lt;-</span> <span class="fu">feols</span>(y <span class="sc">~</span> x_c <span class="sc">+</span> x_right <span class="sc">|</span> d <span class="sc">~</span> z, <span class="at">data =</span> local_dat)</span>
-<span id="cb22-7"><a href=""></a>modelsummary<span class="sc">::</span><span class="fu">msummary</span>(<span class="fu">list</span>(<span class="st">'second stage'</span> <span class="ot">=</span> iv_fit, <span class="st">'first stage'</span> <span class="ot">=</span> iv_fit<span class="sc">$</span>iv_first_stage<span class="sc">$</span>d), <span class="at">stars =</span> <span class="cn">TRUE</span>)</span></code><button title="Copy to Clipboard" class="code-copy-button"><i class="bi"></i></button></pre></div>
+<div class="sourceCode cell-code" id="cb23"><pre class="sourceCode numberSource r number-lines code-with-copy"><code class="sourceCode r"><span id="cb23-1"><a href=""></a><span class="co"># Use the rdrobust bandwidth (left/right) to define a local sample</span></span>
+<span id="cb23-2"><a href=""></a>h_left <span class="ot">&lt;-</span> a<span class="sc">$</span>bws[<span class="dv">1</span>, <span class="dv">1</span>] ; h_right <span class="ot">&lt;-</span> a<span class="sc">$</span>bws[<span class="dv">1</span>, <span class="dv">2</span>]</span>
+<span id="cb23-3"><a href=""></a>local_dat <span class="ot">&lt;-</span> frd_dat <span class="sc">|&gt;</span></span>
+<span id="cb23-4"><a href=""></a>  <span class="fu">filter</span>(x <span class="sc">&gt;=</span> <span class="sc">-</span>h_left, x <span class="sc">&lt;=</span> h_right) <span class="sc">|&gt;</span></span>
+<span id="cb23-5"><a href=""></a>  <span class="fu">mutate</span>(<span class="at">x_c =</span> x, <span class="at">x_right =</span> z <span class="sc">*</span> x_c)</span>
+<span id="cb23-6"><a href=""></a>iv_fit <span class="ot">&lt;-</span> <span class="fu">feols</span>(y <span class="sc">~</span> x_c <span class="sc">+</span> x_right <span class="sc">|</span> d <span class="sc">~</span> z, <span class="at">data =</span> local_dat)</span>
+<span id="cb23-7"><a href=""></a>modelsummary<span class="sc">::</span><span class="fu">msummary</span>(<span class="fu">list</span>(<span class="st">'second stage'</span> <span class="ot">=</span> iv_fit, <span class="st">'first stage'</span> <span class="ot">=</span> iv_fit<span class="sc">$</span>iv_first_stage<span class="sc">$</span>d), <span class="at">stars =</span> <span class="cn">TRUE</span>)</span></code><button title="Copy to Clipboard" class="code-copy-button"><i class="bi"></i></button></pre></div>
 <div class="cell-output-display">
 <!-- preamble start -->
 
@@ -1282,7 +1291,7 @@ Treatment effect estimates.
 </div>
 </section>
 <section id="why-this-2sls-matches-rdrobust-intuition" class="slide level2">
-<h2>Why This 2SLS Matches `rdrobust`` Intuition</h2>
+<h2>Why This 2SLS Matches <code>rdrobust</code> Intuition</h2>
 <ul>
 <li><code>z = 1(x &gt;= c)</code> is exogenous at the cutoff under RD assumptions.</li>
 <li>First stage: <code>z</code> shifts treatment take-up (<code>d</code>) discontinuously.</li>
@@ -1323,6 +1332,10 @@ Treatment effect estimates.
 <li><strong>Estimand:</strong> local complier effect at the cutoff</li>
 </ul>
 <p><code>rdrobust</code> gives a principled default implementation, and local 2SLS makes the mechanics transparent.</p>
+</section>
+<section id="be-creative-discontinuities-more-common-than-you-think" class="slide level2">
+<h2>Be creative discontinuities more common than you think</h2>
+<p><img data-src="img/Aksoy-AJS.png"></p>
 
 </section></section>
     </div>
